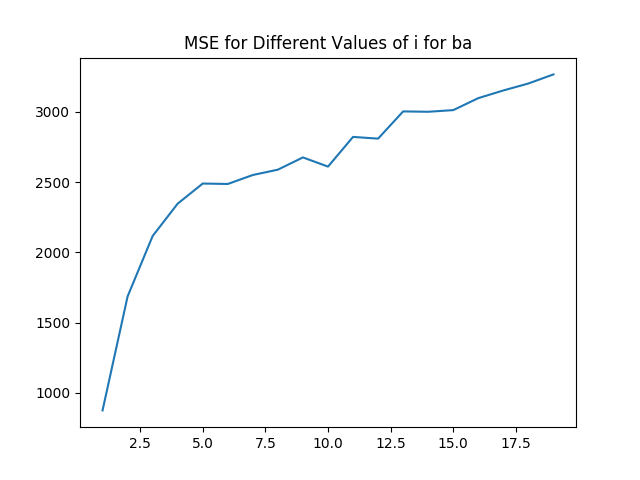
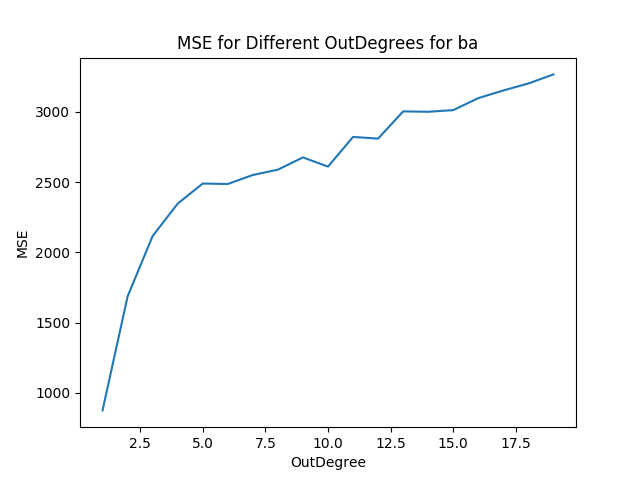
From overleaf

Changed region(s): [[0.2812, 0.0625, 0.75, 0.125], [0.4375, 0.9375, 0.5625, 1.0], [0.0312, 0.5, 0.0625, 0.5312]]

diff --git a/main.tex b/main.tex
@@ -24,23 +24,23 @@ Lexington, KY 40506--0633}
 }
 \maketitle
 
-
-
-\begin{abstract} %Joe
-In order to ascertain behavioral information related to a particular disease, it is integral that the propagation of said disease can be accurately modeled mathematically. Typically, this is accomplished by using a wealth of historical data related to any given disease. It is often the case that no one model can accurately demonstrate all behaviors of a disease realistically. As such, this paper will motivate and discuss a model specifically designed to simulate the propagation of Measles within an interaction based network. In doing so, the authors hope to provide and demonstrate a model that can be used to exclusively simulate measles behavior with a high degree of accuracy. Our model is a variation of [SEIR] model. We introduce the interaction graph based method in which nodes represent individuals and edges represent interactions.The transition from each state in the [SEIR] to another i.e E to I or I to R is determined by thresholds of each node.
+\begin{abstract} %Seif
+In order to ascertain behavioral information related to a particular disease, it is integral that the propagation of said disease can be accurately modeled mathematically. Typically, this is accomplished by using a wealth of historical data related to any given disease. It is often the case that no one model can accurately simulate all behaviors of a disease realistically. As such, this paper will motivate and discuss a model specifically designed to simulate the propagation of Measles within an interaction based network. In doing so, the authors hope to provide and demonstrate a model that can be used to exclusively simulate measles behavior with a high degree of accuracy. Our model is a variation of [SEIR] model. We introduce the interaction graph based method in which nodes represent individuals and edges represent interactions.The transition from each state in the [SEIR] to another i.e E to I or I to R is determined by thresholds of each node.
 The authors consider a number of terms such as secondary infection rate, infection and incubation periods and the basic reproduction number $R_0$.
 By comparing the results of our model to the historical results we found that it works well and can be considered as a reference.
 \end{abstract}
 
 \section{Introduction} %Joe
-The ability to accurately model the propagation of a disease within a given population is a key component in discerning relevant attributes related to the disease being propagated. The generalization of disease propagation simulation to reality hinges upon the ability to accurately model the phenomena within a simulated setting. Typically, this is accomplished by making use of historical data in order to ascertain unique aspects related to the simulated disease. Using these unique aspects, simulations can be run in order to model the general propagation trends of the disease. In most cases, the quickness of propagation and varying infection rates due to personal contact are important factors. Due to the importance of interaction in disease propagation, interaction modeling is given a reasonable amount of attention. Often, this personal contact factor is simulated in one of two ways. The first is a stochastic method, while the remaining is an interaction network based method. In the stochastic simulation method, spreading occurs in a manner that is purely probability based, so a large number of simulations are needed to produce accurate results. In an interaction graph based method, individuals are modeled as vertices and sufficient interactions as edges. In some cases, hybrid models are produced in which both interaction methods are taken into account and intertwined.\par
+The ability to accurately model the propagation of a disease within a given population is a key component in discerning relevant attributes related to the disease being propagated. The generalization of disease propagation simulation to reality hinges upon the ability to accurately model the phenomena within a simulated setting. Typically, this is accomplished by making use of historical data in order to ascertain unique aspects related to the simulated disease. Using these unique aspects, simulations can be run in order to model the general propagation trends of the disease. In most cases, the quickness of propagation and varying infection rates due to personal contact are important factors. Due to the importance of human interaction in disease propagation, interaction modeling is given a reasonable amount of attention. Often, this personal contact factor is simulated in one of two ways. The first is a stochastic method, while the remaining is an interaction network based method. In the stochastic simulation method, spreading occurs in a manner that is purely probability based, so a large number of simulations are needed to produce consistent results. In an interaction graph based method, individuals are modeled as vertices and sufficient interactions as edges. In some cases, hybrid models are produced in which both interaction methods are taken into account and intertwined.\par
 The modeling of epidemic spreading within a community is an extremely well researched area in modern scientific inquiry. With the advent of modern vaccinations, certain diseases have all but died out and become of little to no concern to the general populace. Due to the rise of the anti-vaccination sentiment however, many previously dying diseases are beginning to propagate among human populations once more. With this sentiment becoming increasingly prominent, it would be wise to examine historical data relating to these previous deadly diseases. In particular, diseases such as measles have been given a 'second-wind' so to speak. As a result, the need to accurately simulate these diseases in order to help mitigate the potential harm done by these infections has become increasingly important. As such, models used to simulate these diseases need to be developed in order to help minimize the potential risks.\par
 For modeling the spread of disease, it is common practice to use a pre-established model that applies to general propagation phenomena. For disease propagation, however, this method can be reasonably unreliable due to the variance in individual disease behaviors. As such, it is often appropriate to develop individual models that can be used to accurately model the behavior and propagation phenomena demonstrated by a single disease. With this in mind, this paper seeks to model the behavior and spreading of measles using a model specifically designed to simulate these aspects of the infection. This paper seeks to demonstrate the accuracy and viability of the proposed model by comparing the results to historical behavioral data related to measles. 
 
 \section{Related Work} %Joe
-In general, the modeling and simulation of diseases propagation is often implemented using an already existing model as a base. The most simplistic model that demonstrates propagation capabilities is the Susceptible-Infected (SI) model. In this model, individuals are either unexposed to an infection or infected. Due to the simplicity of the model, it is often a poor means by which to model the propagation of actual diseases. An improvement is made by the SIR model, which adds a recovered compartment that is used to account for individuals that have either survived or perished from the disease. Some models make a distinction between recovery and death, but most rarely differentiate between them. Often, these types of models work well for information diffusion modeling \cite{Tambuscio15} rather than disease propagation modeling. As the primary goal of this paper is the accurate modeling of measles, unfitting models for this topic will be disregarded. Often, models that demonstrate interesting behavior on complex networks behave in a fashion that facilitates better accuracy in modeling disease propagation \cite{Hethcote2000TheMO,Pastor_satorras2014}. An even better approximation model than the SIR model for use in modeling disease propagation is described by Hethcote \cite{Hethcote2000TheMO}. In particular, he presents a Susceptible-Exposed-Infected-Recovered (SEIR) model and a number of variations of the model due to changing disease behavioral phenomena. The SEIR model described by Hethcote has been compared to real world infection data through simulations, demonstrating a reasonable degree of accuracy \cite{Montalan19}. The model forwarded later by this paper is a variation of Hethcote's SEIR model, except that the proposed model does not have a dynamically changing population size similar to the one presented in Hethcote's model \cite{Hethcote2000TheMO}.\par
-Many studies have been published examining or analyzing the general propagation of diseases within a specific real-world population \cite{pinkbookMeasles,measlesIncidence,Jasem2012Elsevier,Mcbrein2003,Sugarman2010}. Using these findings, various models have been proposed with the intent of accurately modeling properties of measles described by related studies. Most of these models are reasonably successful, but there are still a number of areas in which improvement is needed. For example, the initial infection rate of measles is rarely considered in most models. It is also often the case that the number of individuals within a compartment- susceptible, exposed, infected, and recovered-are fit to a graph for the model, but an accurate simulation of similar time scaling is not also taken into account. Specifically, sometimes the graphs may demonstrate a best fit phenomena, but the timescales of the two graphs differ. As such, most models trade off accuracy in one area for greater accuracy in a targeted area. This often produces great results in the targeted area, but then the neglected behaviors typically stray reasonably far from historical data. The model proposed within this paper hopes to rectify this trade-off discrepancy due to parameter priority. \par
-In defining most diseases mathematically, a number of attributes are generally well defined that can be used to describe the disease's behavior. The first of these is the secondary infection rate, which is the percentage of people that will become infected due to contact with an infected individual. For measles in particular, this value is about 0.9, meaning an infected individual will infect 90\% of those they interact with on a daily basis \cite{pinkbookMeasles}. For most measles outbreaks, the peak of infected individuals is typically within the range of 90-120 days \cite{pinkbookMeasles}.Two additional important terms to define would the period of infection and incubation. The period of incubation is the length of time an infected individual carries a disease without it manifesting, which for measles is 10-12 days on average \cite{pinkbookMeasles}. This is equivalent to being within the exposed compartment in the SEIR model. Accordingly, the time infected before an individual recovers is typically 5-6 days on average for measles \cite{pinkbookMeasles}. The last important term that needs defining is r0, which is the average number of people typically infected directly by the first infected individual \cite{JamesR0}. For measles, this value is 12-18 individuals on average \cite{pinkbookMeasles}. For the purpose of this paper, these parameters should suffice in simulating the disease. 
+In general, the modeling and simulation of diseases propagation is often implemented using an already existing model as a base. The most simplistic model that demonstrates propagation capabilities is the Susceptible-Infected (SI) model. In this model, individuals are either unexposed to an infection or infected. Due to the simplicity of the model, it is often a poor means by which to model the propagation of actual diseases. An improvement is made by the SIR model, which adds a recovered compartment that is used to account for individuals that have either survived or perished from the disease. Some models make a distinction between recovery and death, but most rarely differentiate between them. Often, these types of models work well for information diffusion modeling \cite{Tambuscio15} rather than disease propagation modeling. As the primary goal of this paper is the accurate modeling of measles, unfitting models for this topic will be disregarded. Often, models that demonstrate interesting behavior on complex networks behave in a fashion that facilitates better accuracy in modeling disease propagation \cite{Hethcote2000TheMO,Pastor_satorras2014}. An even better approximation model than the SIR model for use in modeling disease propagation is described by Hethcote \cite{Hethcote2000TheMO}. In particular, he presents a Susceptible-Exposed-Infected-Recovered (SEIR) model and a number of variations of the model due to changing disease behavioral phenomena. The SEIR model described by Hethcote has been compared to real world infection data through simulations, demonstrating a reasonable degree of accuracy \cite{Montalan19}. The model forwarded later by this paper is a variation of Hethcote's SEIR model, except that the proposed model does not have a dynamically changing population size similar to the one presented in Hethcote's model \cite{Hethcote2000TheMO}.
+
+Many studies have been published examining or analyzing the general propagation of diseases within a specific real-world population \cite{pinkbookMeasles,measlesIncidence,Jasem2012Elsevier,Mcbrein2003,Sugarman2010}. Using these findings, various models have been proposed with the intent of accurately modeling properties of measles described by related studies. Most of these models are reasonably successful, but there are still a number of areas in which improvement is needed. For example, the initial infection rate of measles is rarely considered in most models. It is also often the case that the number of individuals within a compartment- susceptible, exposed, infected, and recovered-are fit to a graph for the model, but an accurate simulation of similar time scaling is not also taken into account. Specifically, sometimes the graphs may demonstrate a best fit phenomena, but the timescales of the two graphs differ. As such, most models trade off accuracy in one area for greater accuracy in a targeted area. This often produces great results in the targeted area, but then the neglected behaviors typically stray reasonably far from historical data. The model proposed within this paper hopes to rectify this trade-off discrepancy due to parameter priority.
+
+In defining most diseases mathematically, a number of attributes are generally well defined that can be used to describe the disease's behavior. The first of these is the secondary infection rate, which is the percentage of people that will become infected due to contact with an infected individual. For measles in particular, this value is about 0.9, meaning an infected individual will infect 90\% of those they interact with on a daily basis \cite{pinkbookMeasles}. For most measles outbreaks, the peak of infected individuals is typically within the range of 90-120 days \cite{pinkbookMeasles}.Two additional important terms to define would the period of infection and incubation. The period of incubation is the length of time an infected individual carries a disease without it manifesting, which for measles is 10-12 days on average \cite{pinkbookMeasles}. This is equivalent to being within the exposed compartment in the SEIR model. Accordingly, the time infected before an individual recovers is typically 5-6 days on average for measles \cite{pinkbookMeasles}. The last important term that needs defining is \ro, which is the average number of people typically infected directly by the first infected individual \cite{JamesR0}. For measles, this value is 12-18 individuals on average \cite{pinkbookMeasles}. For the purpose of this paper, these parameters should suffice in simulating the disease. 
 
 \section{Problem Statement} %Nima
 The rise of social media has given people new ways to communicate and share ideas. In theory, anyone with a Twitter account can reach millions of people using only a computer with an internet connection. It is clear that online social networks have effects outside the digital world, but the extent and nature of these effects is less certain. The spread of beliefs via social media that vaccines are unsafe or harmful has received attention in the news, so we chose to model the spread of misinformation related to vaccines and how it might affect the spread of diseases. Measles is well-studied and effectively preventable, thus it is amenable to the kind of analysis we propose. In this paper, we combine an information diffusion model with an epidemic model to explore the effects of fact-checking on vaccine hesitancy.
@@ -57,49 +57,61 @@ The information diffusion model is based on a well-known compartmental model cal
 The focus of this paper is on describing and testing the epidemic model. In addition to compartments S, I and R, we add an E compartment to represent people exposed to the virus but not yet contagious (infective). The population of interest is modeled by an undirected network where each node represents a person and each edge represents daily contact with another person sufficient to transmit the disease. For each step of the simulation, nodes with infective neighbors have a chance of $\alpha$ to become "exposed", which means they have "caught" the disease but are not yet able to infect others. Transitions from E to I and from I to R are determined by thresholds set for each node. These thresholds represent the number of days spent in the incubation period (compartment E) and infectious period (compartment I) and are set based on epidemiological data. They are randomly chosen from a Gaussian distribution to reflect variation between individuals. When the number of days in the current compartment reaches the threshold, the node transitions to the next compartment (either E-I or I-R). Additionally, each node in the I compartment has a chance each timestep to move to R regardless of the threshold. This represents death due to the disease and is described by the parameter $\zeta$.
 
 The dynamic behavior of epidemic processes can be described by certain threshold values. The most important of these is called the basic reproduction number $R_0$. It is the number of people a single infective person is expected to infect in a completely susceptible population. It is known that if $R_0 < 1$, the disease will not invade the population.\cite{Hethcote2000TheMO} Higher $R_0$ values correspond to more virulent infections. Measles is one of the most contagious diseases recorded with $R_0$ values ranging from 12 to 18.\cite{pinkbookMeasles}
+
 \section{Proposed Model} %Seif
-We propose a model that combine the information diffusion model [SIR]by adding new compartment E(exposed) to represent people exposed to virus but not yet infective. It will  be [SEIR] model S: susceptible  E: exposed  I : infected  R: recovered. We define transition between compartment by a threshold transition (TT) and has a value 0 or 1, where $\tau_i$ is the period node $i$ stayed in the compartment and $X$ the the threshold period the node $i$ should remain until transition occurs. The following values are chosen from a Gaussian distribution:
-\begin{itemize}
-    \item Threshold incubation from E-I in days (mean 11 days, variance 2) 
-    \item Threshold infection period from I-R in days (mean 6, variance 1)
-\end{itemize}
-The death rate from I-R due to disease is 0.2\%.
+We propose a model that combine the information diffusion model [SIR]by adding new compartment E(exposed) to represent people exposed to virus but not yet infective. It will  be [SEIR] model\\
+S: susceptible  E: exposed  I : infected  R: recovered\\
+We define transition between compartment by a threshold transition (TT) and has a value 0 or 1:
 \begin{align*}
     \text{Threshold transition}(TT) &= \frac{\tau_{i}}{X}\\
     \text{Threshold transition}(TT^{I}) &=%
     \begin{cases}
-    1 &\text{if} \tau_{i}^{I} \geq X_{I}\\
+    1 &\text{if } \tau_{i}^{I} \geq X_{I}\\
     0 &\text{otherwise}
     \end{cases}\\
     \text{Threshold transition}(TT^{R}) &=%
     \begin{cases}
-    1 &\text{if} \tau_{i}^{R} \geq X_{R}\\
+    1 &\text{if } \tau_{i}^{R} \geq X_{R}\\
     0 &\text{otherwise}
     \end{cases}
 \end{align*}
-\subsection{formulation}
+where $\tau_{i}$ is the period of node i stayed in the compartment and X is the threshold period the node i should remain until transition occur.The following threshold values are chosen from Gaussian distribution:
+\begin{itemize}
+    \item Threshold incubation period from E-I  [Mean 11, variance 2] days
+    \item Threshold infection period from I-R  [Mean 6, variance 1] days
+\end{itemize}
+Death rate from I- R  due to disease 0.2\%
+\subsection{Formulation}
 \begin{align*}
     \text{Threshold transition}(TT) &= \frac{\tau_{i}}{X}\\
     \text{Threshold transition from E-I}(TT^{I}) &=%
     \begin{cases}
-    1 &\text{if} \tau_{i}^{I} \geq X_{I}\\
+    1 &\text{if } \tau_{i}^{I} \geq X_{I}\\
     0 &\text{otherwise}
     \end{cases}\\
     \text{Threshold transition from I-R}(TT^{R}) &=%
     \begin{cases}
-    1 &\text{if} \tau_{i}^{R} \geq X_{R}\\
+    1 &\text{if } \tau_{i}^{R} \geq X_{R}\\
     0 &\text{otherwise}
     \end{cases}
 \end{align*}
-where $\tau_i$ is the period node $i$ stayed in the compartment and $X$ is the threshold period the node $i$ should remain until transition occurs. 
-\begin{tabular}{C | C | C | C }
+where i is the period of node i stayed in the compartment and X is the threshold period the node i should remain until transition occur
+\begin{table}[t]
+    \centering
+   \begin{tabular}{|C | C | C | C |}
+        \hline
         \hphantom{ } & E & I & R\\
         \hline
         E &  1-TT^{I} & TT^{I} & 0\\
+        \hline
         I &  0 & 1-TT^{R} & TT^{R}\\
+        \hline
         R &  0 & 0 & 1\\
+        \hline
    \end{tabular}
-   \captionof*{table}{Transition Matrix}
+    \caption{Transition Matrix}
+    \label{tab:trans_matrix}
+\end{table}
 
 \section{Experiment} %Nima
 We performed two sets of computational experiments to evaluate our model. In our first set of experiments, we compared the basic reproduction number \ro of our model disease with estimates of \ro for measles. \ro acts as a threshold in most infection models: if $R_0 > 1$ the infection spreads and if $R_0 < 1$ it does not. It can be estimated from epidemiological data or from a mathematical model. It should not be viewed as a constant value that is fixed for a given disease. Different mathematical models can even provide conflicting estimates, and it is often impossible to measure directly in practice.\cite{Li2011TheFO} It is useful for confirming that our model behaves similarly to other epidemiological models and can serve as a rough measure of the infectiousness of a disease.
@@ -144,21 +156,21 @@ We also evaluated our model against outbreak data taken from a case study.\cite{
 \begin{figure}[t]
     \centering
     \includegraphics[scale=0.5]{images/mse_er.png}
-    \caption{MSE between model and historical data, Erdos-Renyi contact network}
+    \caption{MSE between model and historical data for different numbers of edges, Erdos-Renyi contact network}
     \label{fig:mse_er}
 \end{figure}
 
 \begin{figure}[t]
     \centering
     \includegraphics[scale=0.5]{images/mse_ba.png}
-    \caption{MSE between model and historical data, Barabasi-Albert contact network}
+    \caption{MSE between model and historical data for different outdegrees, Barabasi-Albert contact network}
     \label{fig:mse_ba}
 \end{figure}
 
 \begin{figure}[t]
     \centering
     \includegraphics[scale=0.5]{images/mse_ws.png}
-    \caption{MSE between model and historical data, Watts-Strogatz contact network}
+    \caption{MSE between model and historical data for different outdegrees, Watts-Strogatz contact network}
     \label{fig:mse_ws}
 \end{figure}
 
@@ -175,7 +187,7 @@ On average, there were thirty-seven people still susceptible at the end of the e
 The lower \ro for the real-world data could potentially be explained by immunization. A fully immune person will never become infected, so they are effectively removed from the contact graph. Under the conditions of \textit{herd immunity}, there are enough immunized people that the disease does not survive in the population. Under these conditions the contact graph is broken into many different connected components so the disease cannot propagate.\cite{pinkbookMeasles} According to the case study, immunization rates in the affected area were around 66 percent\footnote{The national average was 76\% at the time}, so a large portion of the population was not susceptible to the disease. We are ultimately interested in studying the effects of social networks on these contact networks and resulting epidemic processes. 
 
 \section{Future Work} %Joe 
-For future consideration, the authors plan to improve the time-scaling accuracy of the model to a great degree. The current model demonstrates accurate modeling for the R0 phenomena and best-fit graphs, but the time scaling is not the most accurate. For associated real-world data,\cite{Jasem2012Elsevier,Mcbrein2003,Sugarman2010} the peak of infection typically lies within the 90-120 day range due to the average incubation period of measles. In most of our simulations where R0 accuracy was given priority though, the average range was noticeably smaller than 90 days. Initially we suspected this could be due to the random graphs that we used to validate our simulations. This lead us to examine the possibility that this inaccuracy was due to the general size of the associated graphs. Increasing the population sizes made a significant difference in modeling for the WS network, but the simulated ER and BA interaction networks demonstrated similar total steps independent of the population size. As a result, different considerations will need to be made so that the model will scale well to real-world data better. Since the WS and BA networks used to validate the model are synthetic in nature, the model was not appropriately tested as rigorously against real-world estimates. Accordingly, the model will need to be properly tested against similar real-world outbreaks. So while the model preforms accurately when compared to the expected historical r0 value, improvements must be made in order to demonstrate that the model accurately generalizes when modeling all of measles' real-world behavioral facets. 
+For future consideration, the authors plan to improve the time-scaling accuracy of the model to a great degree. The current model demonstrates accurate modeling for the R0 phenomena and best-fit graphs, but the time scaling is not a factor that we heavily examine. For associated real-world data,\cite{Jasem2012Elsevier,Mcbrein2003,Sugarman2010} the peak of infection typically lies within the 90-120 day range due to the average incubation period of measles. In most of our initial simulations where R0 accuracy was given priority though, the average range was noticeably smaller than 90 days. Initially we suspected this could be due to the random graphs that we used to validate our simulations. This lead us to examine the possibility that this inaccuracy was due to the general size of the associated graphs. Increasing the population sizes made a significant difference in modeling for the WS network, but the simulated ER and BA interaction networks demonstrated similar total steps independent of the population size. As a result, different considerations will need to be made so that the model will scale well to real-world data better for total timescale. Accordingly, the model will need to be properly tested against similar real-world outbreaks further in order to continue validating the demonstrated results. So while the model preforms accurately when compared to the expected historical r0 value, improvements must be made in order to demonstrate that the model accurately generalizes when modeling all of measles' real-world behavioral facets. 
 
 
 \section{Conclusion} %Seif
